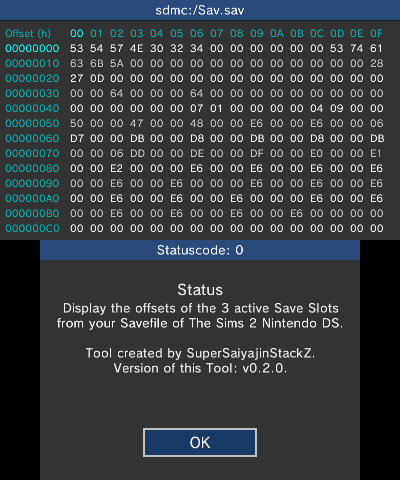
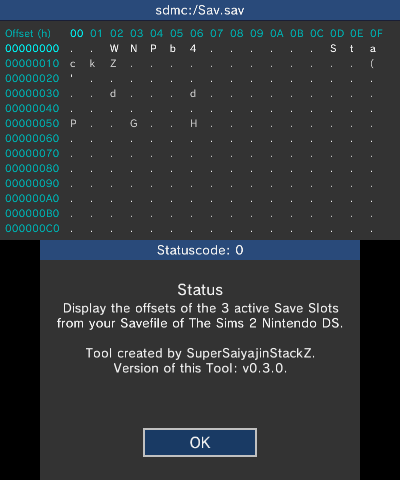
See desc for more.
- The Sims 2 Checksum-Updater: Add support for Japanese and USA version of The Sims 2 Nintendo DS.

- LSSD: Same as above.

Changed region(s): [[0.18, 0.0938, 0.96, 0.5], [0.66, 0.75, 0.69, 0.7812]]

diff --git a/Sims2/Common/README.md b/Sims2/Common/README.md
@@ -12,3 +12,5 @@ Update Checksums of your The Sims 2 GBA and NDS Savefile, in case they got corru
 **v0.2.0**: Added Header with informations to the Script.
 
 **v0.3.0**: Added History to the Header and also detect if a The Sims 2 Game Boy Advance Slot exist at all.
+
+**v0.4.0**: Added The Sims 2 Nintendo DS USA and Japanese support. All the versions can be detected by checking the 5th byte on the header with: 0x1F being USA, 0x20 being EUR and 0x21 being JPN.
